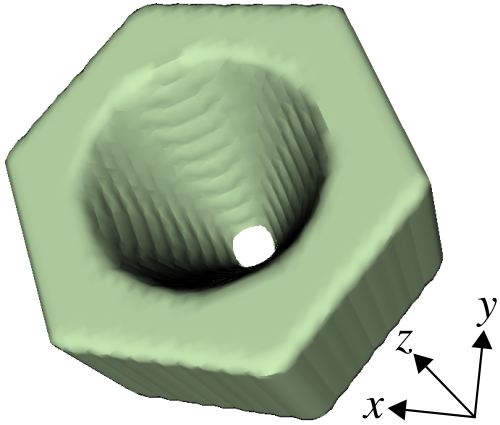
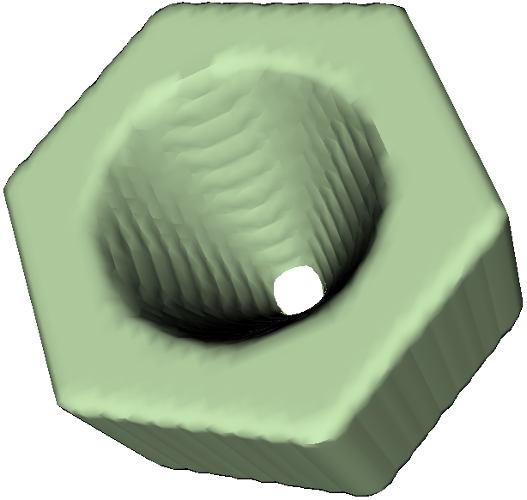
update docs (#424)
* update docs

* tweaks

diff --git a/python/examples/ring.py b/python/examples/ring.py
@@ -25,7 +25,7 @@ def main():
     fcen = 0.15             # pulse center frequency
     df = 0.1                # pulse width (in frequency)
 
-    src = mp.Source(mp.GaussianSource(fcen, fwidth=df), mp.Ez, mp.Vector3(r + 0.1))
+    src = mp.Source(mp.GaussianSource(fcen, fwidth=df), mp.Ez, mp.Vector3(r+0.1))
 
     sim = mp.Simulation(cell_size=mp.Vector3(sxy, sxy),
                         geometry=[c1, c2],

diff --git a/python/examples/solve-cw.py b/python/examples/solve-cw.py
@@ -80,7 +80,7 @@ import h5py
 f = h5py.File("dft_fields.h5", 'r')
 ezi = f["ez_0.i"].value
 ezr = f["ez_0.r"].value
-ez_dat = ezr + 1j * ezi
+ez_dat = ezr+1j*ezi
 
 eps_data = sim.get_array(vol, component=mp.Dielectric)
 ez_data = np.absolute(ez_dat)

diff --git a/doc/docs/Scheme_Tutorials/Basics.md b/doc/docs/Scheme_Tutorials/Basics.md
@@ -2,7 +2,7 @@
 # Scheme Tutorial
 ---
 
-We'll go through several examples using the Python interface that demonstrate the process of computing fields, transmittance/reflectance spectra, and resonant modes. All of the examples here are 1d or 2d calculations, simply because they are quicker than 3d and they illustrate most of the essential features. For more advanced functionality involving 3d computations and technology applications, see the [Simpetus projects page](http://www.simpetus.com/projects_scheme.html).
+We'll go through several examples using the Python interface that demonstrate the process of computing fields, transmittance/reflectance spectra, and resonant modes. The examples are 1d or 2d calculations, simply because they are quicker than 3d and they illustrate most of the essential features. For more advanced functionality involving 3d computations and technology applications, see the [Simpetus projects page](http://www.simpetus.com/projects_scheme.html).
 
 In order to convert the [HDF5](https://en.wikipedia.org/wiki/HDF5) output files of Meep into images of the fields, this tutorial uses the [h5utils](https://github.com/stevengj/h5utils/blob/master/README.md) package. You could also use any other package (i.e., [Octave](https://www.gnu.org/software/octave/) or [Matlab](http://www.mathworks.com/access/helpdesk/help/techdoc/ref/hdf5read.html)) that supports reading HDF5 files.
 
@@ -51,7 +51,7 @@ We can add the waveguide. Most commonly, the structure is specified by a `list` 
 ```scm
 (set! geometry (list
                 (make block (center 0 0) (size infinity 1 infinity)
-                      (material (make dielectric (epsilon 12))))))
+                      (material (make medium (epsilon 12))))))
 ```
 
 The waveguide is specified by a *block* (parallelepiped) of size $\infty \times 1 \times \infty$, with ε=12, centered at (0,0) which is the center of the computational cell. By default, any place where there are no objects there is air (ε=1), although this can be changed by setting the `default-material` variable. The resulting structure is shown below.
@@ -126,9 +126,9 @@ Then let's set up the bent waveguide, in a slightly bigger computational cell, v
 (set! geometry-lattice (make lattice (size 16 16 no-size)))
 (set! geometry (list
                 (make block (center -2 -3.5) (size 12 1 infinity)
-                      (material (make dielectric (epsilon 12))))
+                      (material (make medium (epsilon 12))))
                 (make block (center 3.5 2) (size 1 12 infinity)
-                      (material (make dielectric (epsilon 12))))))
+                      (material (make medium (epsilon 12))))))
 (set! pml-layers (list (make pml (thickness 1.0))))
 (set! resolution 10)
 ```
@@ -272,16 +272,16 @@ We define the geometry via two cases, with an if statement &mdash; the Scheme sy
            (make block
              (center 0 wvg-ycen)
              (size infinity w infinity)
-             (material (make dielectric (epsilon 12)))))
+             (material (make medium (epsilon 12)))))
           (list
            (make block
              (center (* -0.5 pad) wvg-ycen)
              (size (- sx pad) w infinity)
-             (material (make dielectric (epsilon 12))))
+             (material (make medium (epsilon 12))))
            (make block
              (center wvg-xcen (* 0.5 pad))
              (size w (- sy pad) infinity)
-             (material (make dielectric (epsilon 12)))))))
+             (material (make medium (epsilon 12)))))))
 ```
 
 
@@ -548,7 +548,7 @@ title("reflectance (analytic)");
 Modes of a Ring Resonator
 -------------------------
 
-As described in [Introduction](../Introduction.md#resonant-modes), another common task for FDTD simulation is to find the resonant modes &mdash; frequencies and decay rates &mdash; of some cavity structure. You might want to read that again to recall the basic computational strategy. We will show how this works for perhaps the simplest example of a dielectric cavity: a **ring resonator**, which is simply a waveguide bent into a circle. This script can be also found in [ring.ctl](https://github.com/stevengj/meep/blob/master/scheme/examples/ring.ctl). In fact, since this structure has cylindrical symmetry, we can simulate it *much* more efficiently [by using cylindrical coordinates](Ring_Resonator_in_Cylindrical_Coordinates.md), but for illustration here we'll just use an ordinary 2d simulation.
+As described in [Introduction](../Introduction.md#resonant-modes), another common task for FDTD simulation is to find the resonant modes &mdash; frequencies and decay rates &mdash; of some cavity structure. You might want to read that again to recall the basic simulation strategy. We will show how this works for a **ring resonator**, which is simply a waveguide bent into a circle. This script can be also found in [ring.ctl](https://github.com/stevengj/meep/blob/master/scheme/examples/ring.ctl). In fact, since this structure has cylindrical symmetry, we can simulate it much more efficiently [by using cylindrical coordinates](Ring_Resonator_in_Cylindrical_Coordinates.md), but for illustration here we'll just use an ordinary 2d simulation.
 
 As before, we'll define some parameters to describe the geometry, so that we can easily change the structure:
 
@@ -562,12 +562,12 @@ As before, we'll define some parameters to describe the geometry, so that we can
 (set! geometry-lattice (make lattice (size sxy sxy no-size)))
 ```
 
-How do we make a circular waveguide? So far, we've only seen `block` objects, but Meep also lets you specify cylinders, spheres, ellipsoids, and cones, as well as user-specified dielectric functions. In this case, we'll use *two* `cylinder` objects, one inside the other:
+How do we make a circular waveguide? So far, we've only seen `block` objects, but Meep also lets you specify cylinders, spheres, ellipsoids, and cones, as well as user-specified dielectric functions. In this case, we'll use two `cylinder` objects, one inside the other:
 
 ```scm
 (set! geometry (list
                 (make cylinder (center 0 0) (height infinity)
-                      (radius (+ r w)) (material (make dielectric (index n))))
+                      (radius (+ r w)) (material (make medium (index n))))
                 (make cylinder (center 0 0) (height infinity)
                       (radius r) (material air))))
 (set! pml-layers (list (make pml (thickness dpml))))
@@ -576,7 +576,7 @@ How do we make a circular waveguide? So far, we've only seen `block` objects, bu
 
 Later objects in the `geometry` list take precedence over (lie "on top of") earlier objects, so the second `air` (ε=1) cylinder cuts a circular hole out of the larger cylinder, leaving a ring of width w.
 
-We don't know the frequency of the mode(s) ahead of time, so we'll just hit the structure with a broad Gaussian pulse to excite all of the $E_z$-polarized modes in a chosen bandwidth:
+We don't know the frequency of the mode(s) ahead of time, so we'll just hit the structure with a broad Gaussian pulse to excite all of the E<sub>z</sub>-polarized modes in a chosen bandwidth:
 
 ```scm
 (define-param fcen 0.15)   ; pulse center frequency
@@ -608,17 +608,17 @@ There are six columns (in addition to the label), comma-delimited for easy impor
 
 $$f(t) = \sum_n a_n e^{-i \omega_n t}$$
 
-for complex amplitudes $a_n$ and complex frequencies ω$_n$. The six columns relate to these quantities. The first column is the *real* part of ω$_n$, expressed in our usual 2πc units, and the second column is the *imaginary* part &mdash; a *negative* imaginary part corresponds to an exponential decay. This decay rate, for a cavity, is more often expressed as a dimensionless "lifetime" $Q$, defined by:
+for complex amplitudes $a_n$ and complex frequencies ω$_n$. The six columns relate to these quantities. The first column is the *real* part of ω$_n$, expressed in our usual 2πc units, and the second column is the *imaginary* part &mdash; a negative imaginary part corresponds to an exponential decay. This decay rate, for a cavity, is more often expressed as a dimensionless "lifetime" $Q$, defined by:
 
 $$Q = \frac{\mathrm{Re}\,\omega}{-2 \mathrm{Im}\,\omega}.$$
 
-$Q$ is the number of optical periods for the energy to decay by $\exp(-2\pi)$, and 1/$Q$ is the fractional bandwidth at half-maximum of the resonance peak in Fourier domain. This $Q$ is the third column of the output. The fourth and fifth columns are the absolute value $|a_n|$ and complex amplitudes $a_n$. The last column is a crude measure of the error in the frequency (both real and imaginary). If the error is much larger than the imaginary part, for example, then you can't trust the $Q$ to be accurate. Note: *this error is only the uncertainty in the signal processing*, and tells you nothing about the errors from finite resolution, finite cell size, and so on.
+$Q$ is the number of optical periods for the energy to decay by $\exp(-2\pi)$, and 1/$Q$ is the fractional bandwidth at half-maximum of the resonance peak in Fourier domain. This $Q$ is the third column of the output. The fourth and fifth columns are the absolute value $|a_n|$ and complex amplitudes $a_n$. The last column is a crude measure of the error in the frequency (both real and imaginary). If the error is much larger than the imaginary part, for example, then you can't trust the $Q$ to be accurate. Note: this error is only the *uncertainty in the signal processing*, and tells you nothing about the errors from finite resolution, finite cell size, and so on.
 
 An interesting question is how long should we run the simulation, after the sources are turned off, in order to analyze the frequencies. With traditional Fourier analysis, the time would be proportional to the frequency resolution required, but with `harminv` the time is much shorter. For example, there are three modes. The last has a $Q$ of 1677, which means that the mode decays for about 2000 periods or about 2000/0.175 = 10<sup>4</sup> time units. We have only analyzed it for about 300 time units, however, and the estimated uncertainty in the frequency is 10<sup>-7</sup> (with an actual error of about 10<sup>-6</sup>, from below). In general, you need to increase the run time to get more accuracy, and to find very high $Q$ values, but not by much. In some cases, modes with $Q$ of around 10<sup>9</sup> can be found with only 200 periods.
 
 In this case, we found three modes in the specified bandwith, at frequencies of 0.118, 0.147, and 0.175, with corresponding $Q$ values of 81, 316, and 1677. As was shown by [Marcatilli in 1969](https://ieeexplore.ieee.org/document/6769758/), the $Q$ of a ring resonator increases *exponentially* with the product of ω and ring radius. Suppose that we want to actually see the field patterns of these modes. No problem: we just re-run the simulation with a *narrow*-band source around each mode and output the field at the end.
 
-In particular, to output the field at the end we might add an `(at-end output-efield-z)` argument to our `run-sources+` function, but this is problematic: we might be unlucky and output at a time when the $E_z$ field is almost zero (i.e. when all of the energy is in the magnetic field), in which case the picture will be deceptive. Instead, at the end of the run we'll output 20 field snapshots over a whole period 1/`fcen` by appending the command:
+In particular, to output the field at the end we might add an `(at-end output-efield-z)` argument to our `run-sources+` function, but this is problematic: we might be unlucky and output at a time when the E<sub>z</sub> field is almost zero (i.e. when all of the energy is in the magnetic field), in which case the picture will be deceptive. Instead, at the end of the run we'll output 20 field snapshots over a whole period 1/`fcen` by appending the command:
 
 ```scm
 (run-until (/ 1 fcen) (at-every (/ 1 fcen 20) output-efield-z))
@@ -670,6 +670,42 @@ Everything else about your simulation is the same: you can still get the fields 
 In general, the symmetry of the sources may require some phase. For example, if our source was in the $y$ direction instead of the $z$ direction, then the source would be *odd* under mirror flips through the $x$ axis. We would specify this by `(make mirror-sym (direction Y) (phase -1))`. See [User Interface](../Scheme_User_Interface.md#symmetry) for more symmetry possibilities.
 
 In this case, we actually have a lot more symmetry that we could potentially exploit, if we are willing to restrict the symmetry of our source/fields to a particular angular momentum (i.e. angular dependence $e^{im\phi}$). See also [Tutorial/Ring Resonator in Cylindrical Coordinates](Ring_Resonator_in_Cylindrical_Coordinates.md) for how to solve for modes of this cylindrical geometry much more efficiently.
+
+Visualizing 3d Structures
+-------------------------
+
+The previous examples were based on 1d or 2d structures which can be visualized using [h5topng](https://github.com/stevengj/h5utils/blob/master/doc/h5topng-man.md) of the [h5utils](https://github.com/stevengj/h5utils) package. In order to visualize 3d structures, you can use [Mayavi](https://docs.enthought.com/mayavi/mayavi/). The following example, which includes a simulation script and shell commands, involves a sphere with index 3.5 perforated by a conical hole. There are no other simulation parameters specified. The permittivity data is written to an HDF5 file using [output-epsilon](../Scheme_User_Interface/#output-functions). The HDF5 data is then converted to [VTK](https://en.wikipedia.org/wiki/VTK) using [h5tovtk](https://github.com/stevengj/h5utils/blob/master/doc/h5tovtk-man.md). VTK data can be visualized using Mayavi or Paraview via the `IsoSurface` module.
+
+```scm
+(set-param! resolution 50)
+
+(set! geometry-lattice (make lattice (size 3 3 3)))
+
+(set! geometry (list (make sphere (radius 1) (material (make medium (index 3.5))) (center 0 0 0))
+                     (make cone (radius 0.8) (radius2 0.1) (height 2) (material air) (center 0 0 0))))
+
+(init-fields)
+
+(output-epsilon)
+
+(exit)
+```
+
+```sh
+#!/bin/bash
+
+meep sphere-cone.ctl;
+
+h5tovtk -o epsilon.vtk structure_demo-eps-000000.00.h5;
+
+mayavi2 -d epsilon.vtk -m IsoSurface &> /dev/null &
+
+```
+
+<center>
+![](../images/sphere_epsilon.png)
+</center>
+
 
 Editors and ctl
 ---------------

diff --git a/doc/docs/Python_Tutorials/Basics.md b/doc/docs/Python_Tutorials/Basics.md
@@ -2,7 +2,7 @@
 # Python Tutorial
 ---
 
-We'll go through several examples using the Python interface that demonstrate the process of computing fields, transmittance/reflectance spectra, and resonant modes. All of the examples here are 1d or 2d calculations, simply because they are quicker than 3d and they illustrate most of the essential features. For more advanced functionality involving 3d computations and technology applications, see the [Simpetus projects page](http://www.simpetus.com/projects.html).
+We'll go through several examples using the Python interface that demonstrate the process of computing fields, transmittance/reflectance spectra, and resonant modes. The examples are 1d or 2d calculations, simply because they are quicker than 3d and they illustrate most of the essential features. For more advanced functionality involving 3d computations and technology applications, see the [Simpetus projects page](http://www.simpetus.com/projects.html).
 
 [TOC]
 
@@ -615,7 +615,7 @@ plt.show()
 Modes of a Ring Resonator
 -------------------------
 
-As described in [Introduction](../Introduction.md#resonant-modes), another common task for FDTD simulation is to find the resonant modes &mdash; frequencies and decay rates &mdash; of some cavity structure. You might want to read that again to recall the basic computational strategy. We will show how this works for perhaps the simplest example of a dielectric cavity: a ring resonator, which is simply a waveguide bent into a circle. This script can be also found in [ring.py](https://github.com/stevengj/meep/blob/master/python/examples/ring.py). In fact, since this structure has cylindrical symmetry, we can simulate it *much* more efficiently by using cylindrical coordinates, but for illustration here we'll just use an ordinary 2d simulation.
+As described in [Introduction](../Introduction.md#resonant-modes), another common task for FDTD simulation is to find the resonant modes &mdash; frequencies and decay rates &mdash; of some cavity structure. You might want to read that again to recall the basic simulation strategy. We will show how this works for a ring resonator, which is simply a waveguide bent into a circle. This script can be also found in [ring.py](https://github.com/stevengj/meep/blob/master/python/examples/ring.py). In fact, since this structure has cylindrical symmetry, we can simulate it much more efficiently by using cylindrical coordinates, but for illustration here we'll just use an ordinary 2d simulation.
 
 As before, we'll define some parameters to describe the geometry, so that we can easily change the structure:
 
@@ -628,7 +628,7 @@ dpml = 2                # thickness of PML
 sxy = 2*(r+w+pad+dpml)  # cell size
 ```
 
-How do we make a circular waveguide? So far, we've only seen `Block` objects, but Meep also lets you specify cylinders, spheres, ellipsoids, and cones, as well as user-specified dielectric functions. In this case, we'll use *two* `Cylinder` objects, one inside the other:
+How do we make a circular waveguide? So far, we've only seen `Block` objects, but Meep also lets you specify cylinders, spheres, ellipsoids, and cones, as well as user-specified dielectric functions. In this case, we'll use two `Cylinder` objects, one inside the other:
 
 ```py
 c1 = mp.Cylinder(radius=r+w, material=mp.Medium(index=n))
@@ -637,7 +637,7 @@ c2 = mp.Cylinder(radius=r)
 
 Later objects in the `geometry` object take precedence over or rather lie "on top of" earlier objects, so the second `air` (ε=1) cylinder cuts a circular hole out of the larger cylinder, leaving a ring of width w.
 
-We don't know the frequency of the mode(s) ahead of time, so we'll just hit the structure with a broad Gaussian pulse to excite all of the $E_z$-polarized modes in a chosen bandwidth:
+We don't know the frequency of the mode(s) ahead of time, so we'll just hit the structure with a broad Gaussian pulse to excite all of the E<sub>z</sub>-polarized modes in a chosen bandwidth:
 
 ```py
 fcen = 0.15              # pulse center frequency
@@ -659,7 +659,7 @@ sim.run(mp.at_beginning(mp.output_epsilon),
         until_after_sources=300)
 ```
 
-The signal processing is performed by the `Harminv` routine, which takes four arguments: the field component E<sub>z</sub> and position ($r$+0.1,0) to analyze, and a frequency range given by a center frequency and bandwidth (same as the source pulse). Note that we wrap `Harminv` in `after-sources(...)`, since we only want to analyze the frequencies in the source-free system (the presence of a source will distort the analysis). At the end of the run, `Harminv` prints a series of lines (beginning with `harminv0:`, to make it easy to `grep` for) listing the frequencies it found:
+The signal processing is performed by the `Harminv` routine, which takes four arguments: the field component E<sub>z</sub> and position ($r$+0.1,0) to analyze, and a frequency range given by a center frequency and bandwidth (same as the source pulse). Note that we wrap `Harminv` in `after_sources(...)`, since we only want to analyze the frequencies in the source-free system (the presence of a source will distort the analysis). At the end of the run, `Harminv` prints a series of lines (beginning with `harminv0:`) listing the frequencies it found:
 
 ```
 harminv0:, frequency, imag. freq., Q, |amp|, amplitude, error
@@ -668,21 +668,21 @@ harminv0:, 0.147162555528154, -2.32636643253225e-4, 316.29272471914, 0.02864
 harminv0:, 0.175246750722663, -5.22349801171605e-5, 1677.48461212767, 0.00721133215656089, -8.12770506086109e-4-0.00716538314235085i, 1.82066436470489e-7
 ```
 
-There are six columns in addition to the label, comma-delimited for easy import into other programs. The meaning of these columns is as follows. `Harminv` analyzes the fields $f(t)$ at the given point, and expresses this as a sum of modes in the specified bandwidth:
+There are six, comma-delimited columns in addition to the label. These results are also stored in `Harminv.modes`. The meaning of these columns is as follows. `Harminv` analyzes the fields $f(t)$ at the given point, and expresses this as a sum of modes in the specified bandwidth:
 
 $$f(t) = \sum_n a_n e^{-i \omega_n t}$$
 
-for complex amplitudes $a_n$ and complex frequencies ω$_n$. The six columns relate to these quantities. The first column is the *real* part of ω$_n$, expressed in our usual 2πc units, and the second column is the *imaginary* part &mdash; a *negative* imaginary part corresponds to an exponential decay. This decay rate, for a cavity, is more often expressed as a dimensionless "lifetime" $Q$, defined by:
+for complex amplitudes $a_n$ and complex frequencies ω$_n$. The six columns relate to these quantities. The first column is the *real* part of ω$_n$, expressed in our usual 2πc units, and the second column is the *imaginary* part &mdash; a negative imaginary part corresponds to an exponential decay. This decay rate, for a cavity, is more often expressed as a dimensionless "lifetime" $Q$, defined by:
 
 $$Q = \frac{\mathrm{Re}\,\omega}{-2 \mathrm{Im}\,\omega}.$$
 
-$Q$ is the number of optical periods for the energy to decay by $\exp(-2\pi)$, and 1/$Q$ is the fractional bandwidth at half-maximum of the resonance peak in Fourier domain. This $Q$ is the third column of the output. The fourth and fifth columns are the absolute value $|a_n|$ and complex amplitudes $a_n$. The last column is a crude measure of the error in the frequency (both real and imaginary). If the error is much larger than the imaginary part, for example, then you can't trust the $Q$ to be accurate. Note: *this error is only the uncertainty in the signal processing*, and tells you nothing about the errors from finite resolution, finite cell size, and so on.
+$Q$ is the number of optical periods for the energy to decay by $\exp(-2\pi)$, and 1/$Q$ is the fractional bandwidth at half-maximum of the resonance peak in Fourier domain. This $Q$ is the third column of the output. The fourth and fifth columns are the absolute value $|a_n|$ and complex amplitudes $a_n$. The last column is a crude measure of the error in the frequency (both real and imaginary). If the error is much larger than the imaginary part, for example, then you can't trust the $Q$ to be accurate. Note: this error is only the *uncertainty in the signal processing*, and tells you nothing about the errors from finite resolution, finite cell size, and so on.
 
 An interesting question is how long should we run the simulation, after the sources are turned off, in order to analyze the frequencies. With traditional Fourier analysis, the time would be proportional to the frequency resolution required, but with `Harminv` the time is much shorter. For example, there are three modes. The last has a $Q$ of 1677, which means that the mode decays for about 2000 periods or about 2000/0.175 = 10<sup>4</sup> time units. We have only analyzed it for about 300 time units, however, and the estimated uncertainty in the frequency is 10<sup>-7</sup> (with an actual error of about 10<sup>-6</sup>, from below). In general, you need to increase the run time to get more accuracy, and to find very high $Q$ values, but not by much. In some cases, modes with $Q$ of around 10<sup>9</sup> can be found with only 200 periods.
 
 In this case, we found three modes in the specified bandwith, at frequencies of 0.118, 0.147, and 0.175, with corresponding $Q$ values of 81, 316, and 1677. As was shown by [Marcatilli in 1969](https://ieeexplore.ieee.org/document/6769758/), the $Q$ of a ring resonator increases *exponentially* with the product of ω and ring radius. Suppose that we want to actually see the field patterns of these modes. No problem: we just re-run the simulation with a *narrow*-band source around each mode and output the field at the end.
 
-In particular, to output the field at the end we might add an `at_end(mp.output-efield_z)` argument to our `run_after_sources` routine, but this is problematic: we might be unlucky and output at a time when the $E_z$ field is almost zero (i.e. when all of the energy is in the magnetic field), in which case the picture will be deceptive. Instead, at the end of the run we'll output 20 field snapshots over a whole period 1/`fcen` by appending the command:
+In particular, to output the field at the end we might add an `at_end(mp.output_efield_z)` argument to our `run_after_sources` routine, but this is problematic: we might be unlucky and output at a time when the E<sub>z</sub> field is almost zero (i.e. when all of the energy is in the magnetic field), in which case the picture will be deceptive. Instead, at the end of the run we'll output 20 field snapshots over a whole period 1/`fcen` by appending the command:
 
 ```py
 sim.run(mp.at_every(1/fcen/20, mp.output_efield_z), until=1/fcen)
@@ -739,7 +739,7 @@ In this case, we actually have a lot more symmetry that we could potentially exp
 Visualizing 3d Structures
 -------------------------
 
-The previous examples were based on 1d or 2d structures which can be visualized using the plotting routines in Matplotlib. In order to visualize 3d structures, you can use [Mayavi](https://docs.enthought.com/mayavi/mayavi/). The following example involves a hexagonal [prism](../Python_User_Interface/#prism) with index 3.5 perforated by a [conical](../Python_User_Interface/#cone) hole. No other simulation parameters are specified. The permittivity data is visualized using an iso-surface plot via [contour3d](http://docs.enthought.com/mayavi/mayavi/auto/mlab_helper_functions.html#mayavi.mlab.contour3d). A snapshot of this plot is shown below (the Cartesian direction labels have been added separately in post processing and are not part of Mayavi). For visualization of the vector fields in 3d, you can use [quiver3d](http://docs.enthought.com/mayavi/mayavi/auto/mlab_helper_functions.html#mayavi.mlab.quiver3d).
+The previous examples were based on 1d or 2d structures which can be visualized using the plotting routines in Matplotlib. In order to visualize 3d structures, you can use [Mayavi](https://docs.enthought.com/mayavi/mayavi/). The following example involves a hexagonal [prism](../Python_User_Interface/#prism) with index 3.5 perforated by a [conical](../Python_User_Interface/#cone) hole. There are no other simulation parameters specified. The permittivity data is visualized using an isosurface plot via the [contour3d](http://docs.enthought.com/mayavi/mayavi/auto/mlab_helper_functions.html#mayavi.mlab.contour3d) module. A snapshot of this plot is shown below. For visualization of the vector fields in 3d, you can use the [quiver3d](http://docs.enthought.com/mayavi/mayavi/auto/mlab_helper_functions.html#mayavi.mlab.quiver3d) module.
 
 Alternatively, the permittivity can be visualized from outside of Python. This involves writing the permittivity data to an HDF5 file using [output_epsilon](Python_User_Interface/#output-functions). The HDF5 data is then converted to [VTK](https://en.wikipedia.org/wiki/VTK) via [h5tovtk](https://github.com/stevengj/h5utils/blob/master/doc/h5tovtk-man.md) of the [h5utils](https://github.com/stevengj/h5utils) package. VTK data can be visualized using Mayavi or Paraview.
 
@@ -761,7 +761,7 @@ vertices = [mp.Vector3(-1,0),
 geometry = [mp.Prism(vertices, height=1.0, material=mp.Medium(index=3.5)),
             mp.Cone(radius=1.0, radius2=0.1, height=2.0, material=mp.air)]
 
-sim = mp.Simulation(resolution=20,
+sim = mp.Simulation(resolution=50,
                     cell_size=cell_size,
                     geometry=geometry)
 

diff --git a/doc/docs/FAQ.md b/doc/docs/FAQ.md
@@ -23,7 +23,7 @@ There is a public [mailing list](http://ab-initio.mit.edu/cgi-bin/mailman/listin
 
 ### Are professional consulting services available?
 
-[Simpetus](http://www.simpetus.com), a company started by Meep's developers, provides professional consulting services for photonic design and modeling including development of turn-key simulation modules as well as training and technical support for getting up and running with Meep.
+Yes. [Simpetus](http://www.simpetus.com), a company started by Meep's developers, provides professional consulting services for photonic design and modeling including development of turn-key simulation modules as well as training and technical support for getting up and running with Meep.
 
 ### How can I contribute to the Meep project?
 
@@ -39,7 +39,7 @@ For a list of published works which have used Meep, see the Google Scholar citat
 
 ### Can I access Meep in the public cloud?
 
-Meep is available preinstalled on Ubuntu on Amazon Web Services (AWS) Elastic Compute Cloud (EC2) as a free [Amazon Machine Image (AMI)](https://aws.amazon.com/marketplace/pp/B01KHWH0AS). To access this AMI, follow these [instructions](http://www.simpetus.com/launchsims.html).
+Yes. Meep is available preinstalled on Ubuntu on Amazon Web Services (AWS) Elastic Compute Cloud (EC2) as a free [Amazon Machine Image (AMI)](https://aws.amazon.com/marketplace/pp/B01KHWH0AS). To access this AMI, follow these [instructions](http://www.simpetus.com/launchsims.html).
 
 Installation
 ------------
@@ -130,7 +130,7 @@ Meep contains a [frequency-domain solver](Python_User_Interface/#frequency-domai
 
 This means that all of the features from the time-domain solver (e.g., arbitrary materials, symmetries, subpixel averaging, parallelization, etc.) are also available as a frequency-domain solver. For certain problems, such as cavities (e.g., ring resonators) with long-lived resonant modes, the frequency-domain solver converges much faster than the straightforward approach of simply running a long simulation until transients have disappeared. Another benefit is that an arbitrary, complex, refractive index can be specified directly using the [electric conductivity](Materials/#conductivity-and-complex) without having to fit the data to a sum of [Drude-Lorentz susceptibility terms](Materials/#material-dispersion).
 
-Examples are provided in [Tutorials/Frequency-Domain Solver](Python_Tutorials/Frequency_Domain_Solver/).
+Examples are provided in [Tutorial/Frequency-Domain Solver](Python_Tutorials/Frequency_Domain_Solver/).
 
 ### Should I expect linear [speedup](https://en.wikipedia.org/wiki/Speedup) from the parallel Meep?
 
@@ -157,6 +157,6 @@ Only the real, frequency-independent part of ε/μ is written out to an HDF5 fil
 
 Meep does not support grids with spatially varying resolution. One possible approach, which does not require changes to the underlying code and is not yet implemented, is to use a coordinate transformation to selectively increase the resolution in a given region of the computational cell. This is possible using transformation optics which involves a change of materials. For more details, see the notes [Coordinate Transformation and Invariance in Electromagnetism](http://math.mit.edu/~stevenj/18.369/coordinate-transform.pdf) and the [notes by Felix Schwarz on variable resolution in Meep](https://github.com/fesc3555/meep_variable_resolution) using this technique.
 
-### How to visualize the structure and fields in 3d?
+### How do I visualize the structure and fields in 3d?
 
-You will need to use [Mayavi](http://docs.enthought.com/mayavi/mayavi/index.html). For an example, see [Tutorials/Basics](Python_Tutorials/Basics/#visualizing-3d-structures).
+You will need [Mayavi](http://docs.enthought.com/mayavi/mayavi/index.html). For an example, see [Tutorial/Basics](Python_Tutorials/Basics/#visualizing-3d-structures).

diff --git a/doc/docs/Python_Tutorials/Frequency_Domain_Solver.md b/doc/docs/Python_Tutorials/Frequency_Domain_Solver.md
@@ -2,7 +2,7 @@
 # Frequency Domain Solver
 ---
 
-This tutorial demonstrates Meep's [frequency-domain solver](../Python_User_Interface/#frequency-domain-solver) which is used to compute the fields produced in a geometry in response to a [continuous-wave (CW) source](https://en.wikipedia.org/wiki/Continuous_wave). For details on how this feature works, see Section 5.3 ("Frequency-domain solver") of [Computer Physics Communications, Vol. 181, pp. 687-702, 2010](http://ab-initio.mit.edu/~oskooi/papers/Oskooi10.pdf). This example involves using the frequency-domain solver to compute the fields of a ring resonator which has been described in [Basics/Modes of a Ring Resonator](Basics/#modes-of-a-ring-resonator). First, we will verify that the error in the computed fields decreases monotonically with decreasing tolerance of the iterative solver. And then, we will demonstrate qualitative agreement with the frequency-domain fields computed using a different method: [Fourier transforming](https://en.wikipedia.org/wiki/Discrete_Fourier_transform) the time-domain fields in response to a narrowband Gaussian-pulse source.
+This tutorial demonstrates Meep's [frequency-domain solver](../Python_User_Interface/#frequency-domain-solver) which is used to compute the fields produced in a geometry in response to a [continuous-wave (CW) source](https://en.wikipedia.org/wiki/Continuous_wave). For details on how this feature works, see Section 5.3 ("Frequency-domain solver") of [Computer Physics Communications, Vol. 181, pp. 687-702, 2010](http://ab-initio.mit.edu/~oskooi/papers/Oskooi10.pdf). This example involves using the frequency-domain solver to compute the fields of a ring resonator which has been described in [Tutorial/Basics](Basics/#modes-of-a-ring-resonator). First, we will verify that the error in the computed fields decreases monotonically with decreasing tolerance of the iterative solver. And then, we will demonstrate qualitative agreement with the frequency-domain fields computed using a different method: [Fourier transforming](https://en.wikipedia.org/wiki/Discrete_Fourier_transform) the time-domain fields in response to a narrowband Gaussian-pulse source.
 
 Usage of the frequency-domain solver involves only two changes to the [original simulation](https://github.com/stevengj/meep/blob/master/python/examples/ring.py): (1) replace the Gaussian-pulse source with a [continuous source](../Python_User_Interface/#continuoussource), and (2) turn on complex fields since, by default, real fields are used. Everything else remains unchanged.
 
@@ -103,7 +103,7 @@ import h5py
 f = h5py.File("dft_fields.h5", 'r')
 ezi = f["ez_0.i"].value
 ezr = f["ez_0.r"].value
-ez_dat = ezr + 1j * ezi
+ez_dat = ezr+1j*ezi
 
 eps_data = sim.get_array(center=mp.Vector3(), size=mp.Vector3(sxy-2*dpml,sxy-2*dpml), component=mp.Dielectric)
 ez_data = np.absolute(ez_dat)

diff --git a/doc/docs/Python_User_Interface.md b/doc/docs/Python_User_Interface.md
@@ -638,9 +638,9 @@ A Python function of a single argument, that takes a `Vector3` giving a position
 
 **`amp_func_file` [`string`]**  
 &nbsp;&nbsp;&nbsp;&nbsp;&nbsp;&nbsp;&nbsp;&nbsp;&nbsp;
-String of the form `path_to_h5_file.h5:dataset`. The `.h5` extension is optional. MEEP will read the HDF5 file and create an amplitude function that interpolates into the grid specified by the file. MEEP expects the data to be split into real and imaginary parts, so in the above example it will look for `dataset.re` and `dataset.im` in the file `path_to_h5_file.h5`. Defaults to the empty string.
+String of the form `path_to_h5_file.h5:dataset`. The `.h5` extension is optional. Meep will read the HDF5 file and create an amplitude function that interpolates into the grid specified by the file. Meep expects the data to be split into real and imaginary parts, so in the above example it will look for `dataset.re` and `dataset.im` in the file `path_to_h5_file.h5`. Defaults to the empty string.
 
-**`amp_data` ['numpy.ndarray with dtype=numpy.complex128']**  
+**`amp_data` [`numpy.ndarray with dtype=numpy.complex128`]**  
 &nbsp;&nbsp;&nbsp;&nbsp;&nbsp;&nbsp;&nbsp;&nbsp;&nbsp;
 Like `amp_func_file` above, but instead of interpolating into an HDF5 file, interpolates into a complex numpy array. The array should be three dimensions. For a 2D simulation, just pass 1 for the third dimension, e.g., `arr = np.zeros((N, M, 1), dtype=np.complex128)`. Defaults to `None`.
 
@@ -828,7 +828,7 @@ Given a `meep.Volume`, returns the integral of the electric- and magnetic-field 
 
 **`modal_volume_in_box(box=None, center=None, size=None)`**  
 &nbsp;&nbsp;&nbsp;&nbsp;&nbsp;&nbsp;&nbsp;&nbsp;&nbsp;
-Given a `meep.Volume`, returns the instantaneous modal volume according to the Purcell-effect definition: integral (ε|E|^2) / maximum (ε|E|^2). If no volume argument is provided, the entire computational cell is used by default. If the `center` and `size` arguments are provided instead of `box`, meep will construct the appropriate volume for you.
+Given a `meep.Volume`, returns the instantaneous modal volume according to the Purcell-effect definition: integral (ε|E|<sup>2</sup>) / maximum (ε|E|<sup>2</sup>). If no volume argument is provided, the entire computational cell is used by default. If the `center` and `size` arguments are provided instead of `box`, Meep will construct the appropriate volume for you.
 
 Note that if you are at a fixed frequency and you use complex fields (via Bloch-periodic boundary conditions or `fields_complex=True`), then one half of the flux or energy integrals above corresponds to the time average of the flux or energy for a simulation with real fields.
 

diff --git a/doc/docs/Scheme_Tutorials/Frequency_Domain_Solver.md b/doc/docs/Scheme_Tutorials/Frequency_Domain_Solver.md
@@ -2,7 +2,7 @@
 # Frequency Domain Solver
 ---
 
-This tutorial demonstrates Meep's [frequency-domain solver](../Scheme_User_Interface/#frequency-domain-solver) which is used to compute the fields produced in a geometry in response to a [continuous-wave (CW) source](https://en.wikipedia.org/wiki/Continuous_wave). For details on how this feature works, see Section 5.3 ("Frequency-domain solver") of [Computer Physics Communications, Vol. 181, pp. 687-702, 2010](http://ab-initio.mit.edu/~oskooi/papers/Oskooi10.pdf). This example involves using the frequency-domain solver to compute the fields of a ring resonator which has been described in [Basics/Modes of a Ring Resonator](Basics/#modes-of-a-ring-resonator). We will verify that the error in the computed fields decreases monotonically with decreasing tolerance of the iterative solver.
+This tutorial demonstrates Meep's [frequency-domain solver](../Scheme_User_Interface/#frequency-domain-solver) which is used to compute the fields produced in a geometry in response to a [continuous-wave (CW) source](https://en.wikipedia.org/wiki/Continuous_wave). For details on how this feature works, see Section 5.3 ("Frequency-domain solver") of [Computer Physics Communications, Vol. 181, pp. 687-702, 2010](http://ab-initio.mit.edu/~oskooi/papers/Oskooi10.pdf). This example involves using the frequency-domain solver to compute the fields of a ring resonator which has been described in [Tutorial/Basics](Basics/#modes-of-a-ring-resonator). We will verify that the error in the computed fields decreases monotonically with decreasing tolerance of the iterative solver.
 
 Usage of the frequency-domain solver involves only two changes to the [original simulation](https://github.com/stevengj/meep/blob/master/scheme/examples/ring.ctl): (1) replace the Gaussian-pulse source with a [continuous source](../Scheme_User_Interface/#source), and (2) turn on complex fields since, by default, real fields are used. Everything else remains unchanged.
 

diff --git a/doc/docs/Scheme_User_Interface.md b/doc/docs/Scheme_User_Interface.md
@@ -971,12 +971,12 @@ Scale the Fourier-transformed fields in `near2far` by the complex number `s`. e.
 
 These functions dump the raw ε data to disk and load it back for doing multiple simulations with the same materials but different sources etc. The only prerequisite is that the dump/load simulations have the same chunks (i.e. the same grid, number of processors, and PML). Currently only stores ε and μ, and not nonlinear coefficients or polarizability.
 
-**`(meep-structure-dump structure fname)`**
+**`(meep-structure-dump structure fname)`**  
 &nbsp;&nbsp;&nbsp;&nbsp;&nbsp;&nbsp;&nbsp;&nbsp;&nbsp;&nbsp;
 Dumps the structure to the file `fname` using the global `structure` object
 (which is initialized after you execute `run` or `init-structure`).
 
-**`(meep-structure-load structure fname)`**
+**`(meep-structure-load structure fname)`**  
 &nbsp;&nbsp;&nbsp;&nbsp;&nbsp;&nbsp;&nbsp;&nbsp;&nbsp;&nbsp;
 Loads a structure from the file `fname`.   This should be called after
 `(init-structure)` so that the global `structure` object is initialized,
